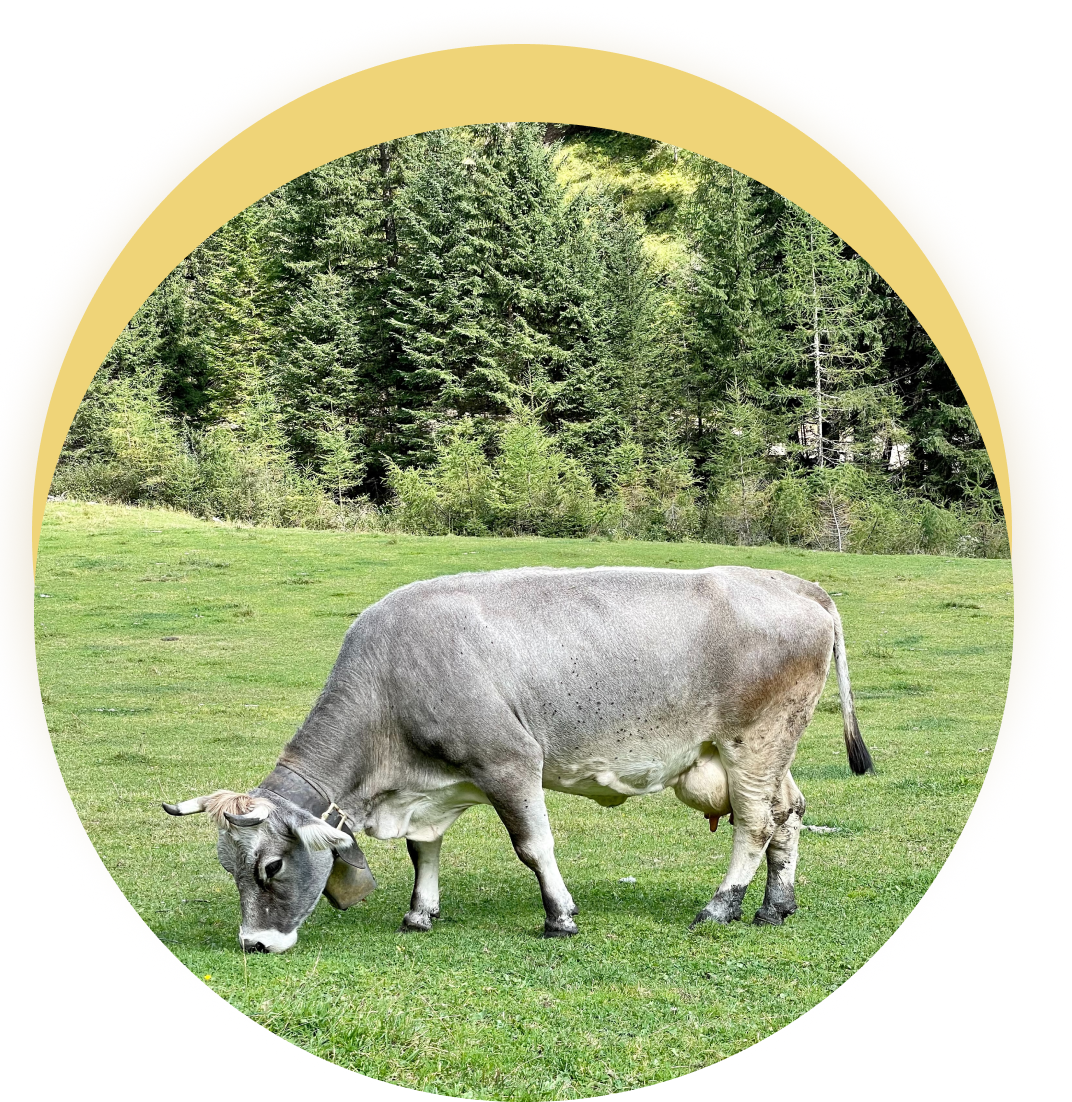
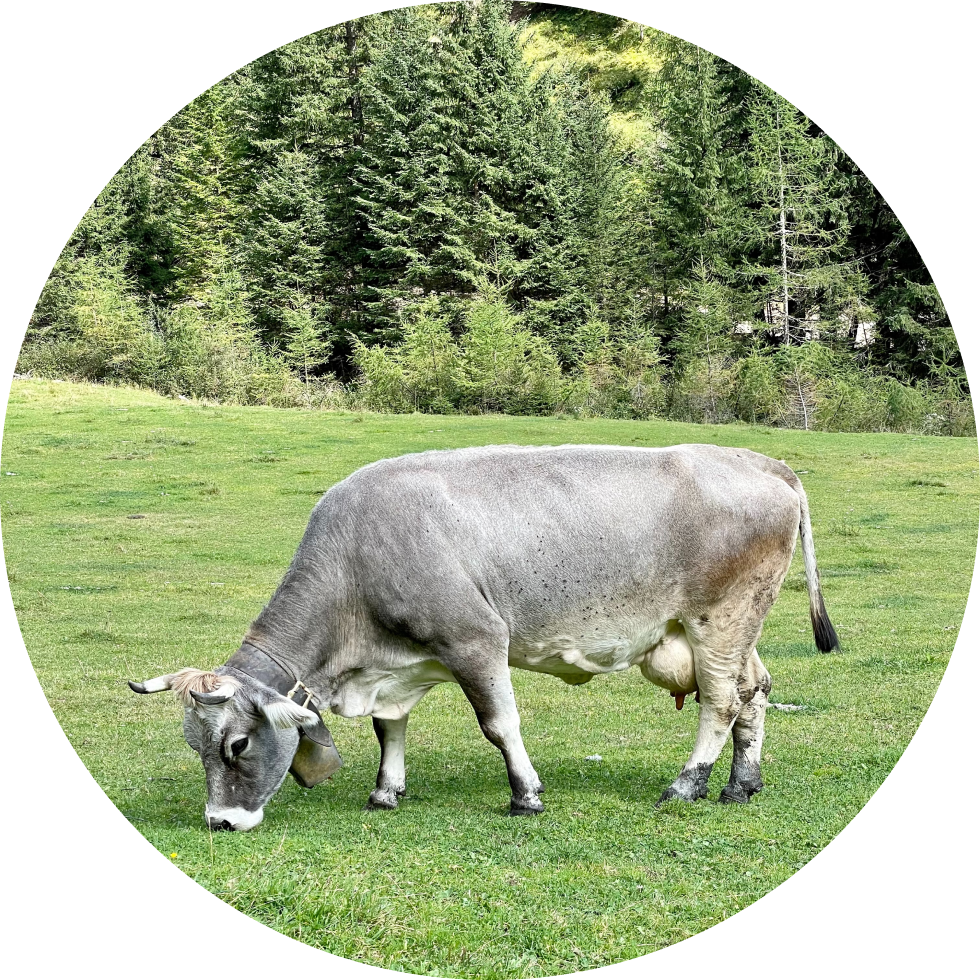
about

diff --git a/src/sass/components/_about.scss b/src/sass/components/_about.scss
@@ -7,8 +7,9 @@
     padding-top: 60px;
     padding-bottom: 60px;
   }
+}
 
-  .main-text-one {
+  .about-main-text-one {
     font-family: $mainFont;
     font-weight: 700;
     font-size: 18px;
@@ -34,7 +35,7 @@
     }
   }
 
-  .main-text {
+  .about-main-text {
     font-family: $titleFont;
     font-style: normal;
     font-weight: 400;
@@ -66,7 +67,7 @@
     }
   }
 
-  .block {
+  .about-block {
     display: flex;
     flex-direction: column;
     align-items: center;
@@ -81,7 +82,7 @@
     }
   }
 
-  .image {
+  .about-image {
     width: 279px;
     height: 279px;
 
@@ -96,6 +97,8 @@
 
     margin: 0 auto;
 
+
+
     @media screen and (min-width: 768px) {
       width: 330px;
       height: 330px;
@@ -108,9 +111,10 @@
       height: auto;
       box-shadow: 0px -39px #ebd686;
     }
+
   }
 
-  .list {
+  ul.about-list {
     display: flex;
     flex-direction: column;
     align-items: stretch;
@@ -136,7 +140,7 @@
     }
   }
 
-  .text {
+  .about-text {
     font-family: $mainFont;
     font-style: normal;
     font-weight: 400;
@@ -158,7 +162,7 @@
     }
   }
 
-  .text-one {
+  .about-text-one {
     font-family: $mainFont;
     font-style: normal;
     font-weight: 400;
@@ -182,7 +186,7 @@
     }
   }
 
-  .text-two {
+  .about-text-two {
     display: none;
 
     @media screen and (min-width: 768px) {
@@ -204,7 +208,7 @@
     }
   }
 
-  .button {
+  .about-button {
     margin: 0 auto;
     margin-top: 10px;
 
@@ -232,20 +236,20 @@
       margin-top: 54px;
     }
   }
-  .button:hover {
+  .about-button:hover {
     background-color: $hoverFocusBtnBgColor;
     color: $buttonTextColor;
   }
-  .button:focus {
+  .about-button:focus {
     background-color: $hoverFocusBtnBgColor;
     color: $secondaryBgColor;
     fill: $secondaryBgColor;
   }
-  .button:disabled {
+  .about-button:disabled {
     background-color: $disabledBtnBgColor;
   }
 
-  .button-text {
+  .about-button-text {
     font-family: $mainFont;
     font-style: normal;
     font-weight: 600;
@@ -254,4 +258,146 @@
 
     margin-right: 7px;
   }
-}
+
+/* Стили для подложки */
+
+.overlay {
+   
+    /* Скрываем подложку  */
+    opacity: 0;
+    visibility: hidden;
+    
+    position: fixed;
+    top: 0;
+    left: 0;
+    width: 100%;
+    height: 100%;
+    background-color: rgba(0, 0, 0, .5);
+    z-index: 20;
+    transition: .3s all;
+ }
+ 
+ 
+ /* Стили для модальных окон */
+ 
+ .modal {
+    
+    /* Скрываем окна  */
+    opacity: 0;
+    visibility: hidden;
+    
+    
+    /*  Установаем ширину окна  */
+    width: 100%;
+    max-width: 500px;
+    width: 280px;
+    height: auto;
+
+  
+    
+    /*  Центрируем и задаем z-index */
+    position: fixed;
+    top: 50%;
+    left: 50%;
+    transform: translate(-50%, -50%);
+    z-index: 30; /* Должен быть выше чем у подложки*/
+    
+    /*  Побочные стили   */
+    box-shadow: 0 3px 10px -.5px rgba(0, 0, 0, .2); 
+    text-align: center;
+    padding: 28px;
+    border-radius: 10px;
+    border: 2px solid #F8D24E;
+    background-color: #fff;
+    transition: 0.3s all;
+
+
+    @media screen and (min-width: 768px) {
+        width: 568px;
+        height: 449px;
+      }
+ }
+ 
+ 
+ /* Стили для активных классов подложки и окна */
+ 
+ .modal.active,
+ .overlay.active{
+    opacity: 1;
+    visibility: visible;
+ }
+ 
+ 
+ /* Стили для кнопки закрытия */
+ 
+ .modal__cross {
+    width: 12px;
+    height: 12px;
+    position: absolute;
+    top: 16px;
+    right: 16px;
+    fill: #444;
+    cursor: pointer;
+    @media screen and (min-width: 768px) {
+        top: 17px;
+        right: 17px;
+      }
+ }
+ 
+ 
+ /* Стили для кнопок. Мы ведь порядочные разработчики, негоже простые ссылки оставлять */
+ 
+ .about__modal-title{
+    font-family: 'Seymour One';
+font-style: normal;
+font-weight: 400;
+font-size: 16px;
+line-height: 150%;
+margin: 0 auto;
+ margin-bottom: 20px;
+
+color: #131313;
+
+@media screen and (min-width: 768px) {
+margin-bottom: 32px;
+font-size: 20px;
+line-height: 140%;
+  }
+ }
+
+ .about-video{
+    width: 224px;
+    height: 199px;
+    
+    margin: 0;
+    padding: 0;
+
+    margin-bottom: 20px;
+
+    border-radius: 10px;
+    @media screen and (min-width: 768px) {
+        width: 448px;
+        height: 205px;
+        margin-bottom: 32px;
+          }
+ }
+
+ .about__modal-text{
+    font-family: 'Montserrat';
+font-style: normal;
+font-weight: 400;
+font-size: 14px;
+line-height: 140%;
+
+@media screen and (min-width: 768px) {
+    font-size: 16px;
+
+      }
+
+// padding-bottom: 20px;
+/* or 20px */
+
+// margin-top: 20px;
+color: #131313;
+
+ }

diff --git a/src/partials/about.html b/src/partials/about.html
@@ -1,44 +1,77 @@
 <section class="about">
   <div class="container">
-    <p class="main-text-one">tradition and love</p>
-    <h2 class="main-text">how it’s made?</h2>
+    <p class="about-main-text-one">tradition and love</p>
+    <h2 class="about-main-text">how it’s made?</h2>
 
-    <div class="block">
-      <!-- <img  class="image" src="./images/about/cow@2x.png" alt="image"> -->
-      <img class="image" src="./images/about/michael.png" alt="image" />
+    <div class="about-block">
+      <img 
+      class="about-image" 
+      srcset="./images/about/cow@1x.png 1x, ./images/about/cow@2x.png 2x"
+      src="./images/about/cow@1x.png" 
+      alt="cow"/>
 
-      <div class="block-second">
-        <ul data-aos="fade-left" class="list">
-          <li class="">
-            <p class="text">
+      <div class="about-block-second">
+        <ul  class="about-list">
+          <li >
+            <p class="about-text">
               Ice is a place where you will become not only a little happier,
               but also healthier. Health is the main value for us, and we follow
               it when creating our handmade desserts.
             </p>
           </li>
-          <li class="">
-            <p class="text-one">
+          <li >
+            <p class="about-text-one">
               We use traditional recipes and 100% natural ingredients. Our
               products are so natural that they can be given to children from
               the age of three years. Sweets lovers can expect 55 types of ice
               cream, 15 types of coffee and 23 milkshakes.
             </p>
           </li>
-          <li class="">
-            <p class="text-two">
+          <li >
+            <p class="about-text-two">
               This is enough to choose ice cream and coffee for any mood!
             </p>
           </li>
         </ul>
 
-        <button class="button" type="button">
-          <span class="button-text">Read more</span>
+        <button class="about-button js-open-modal" type="button" data-modal="10">
+          <span class="about-button-text">Read more</span>
 
-          <svg class="button-svg" width="12" height="12 ">
+          <svg class="about-button-svg" width="12" height="12 ">
             <use href="./images/images-sprite.svg#icon-button-arrow"></use>
           </svg>
+
+       
+
+
         </button>
+
       </div>
     </div>
   </div>
+
+ 
+
+<div class="modal" data-modal="10">
+   <!--   Svg иконка для закрытия окна  -->
+  
+    <svg class="modal__cross js-modal-close" width="12" height="12">
+        <use href="./images/images-sprite.svg#icon-menu-close"></use>
+      </svg>
+    <h3 class="about__modal-title">How it’s made?</h3>
+    
+    <iframe class="about-video" 
+
+    src="https://www.youtube.com/embed/oP7KHC129RQ" 
+    title="YouTube video player" 
+    frameborder="0" 
+    allow="accelerometer; autoplay; clipboard-write; encrypted-media; gyroscope; picture-in-picture" allowfullscreen>
+    </iframe>
+    <p class="about__modal-text">Lorem ipsum dolor sit amet, consectetur adipiscing elit, sed do eiusmod tempor incididunt ut labore et Lorem ipsum dolor sit amet, consectetur adipiscing elit, sed do eiusmod tempor incididunt ut labore et</p>
+
+</div>
+
+
+<!-- Подложка под модальным окном -->
+<div class="overlay js-overlay-modal"></div>
 </section>
